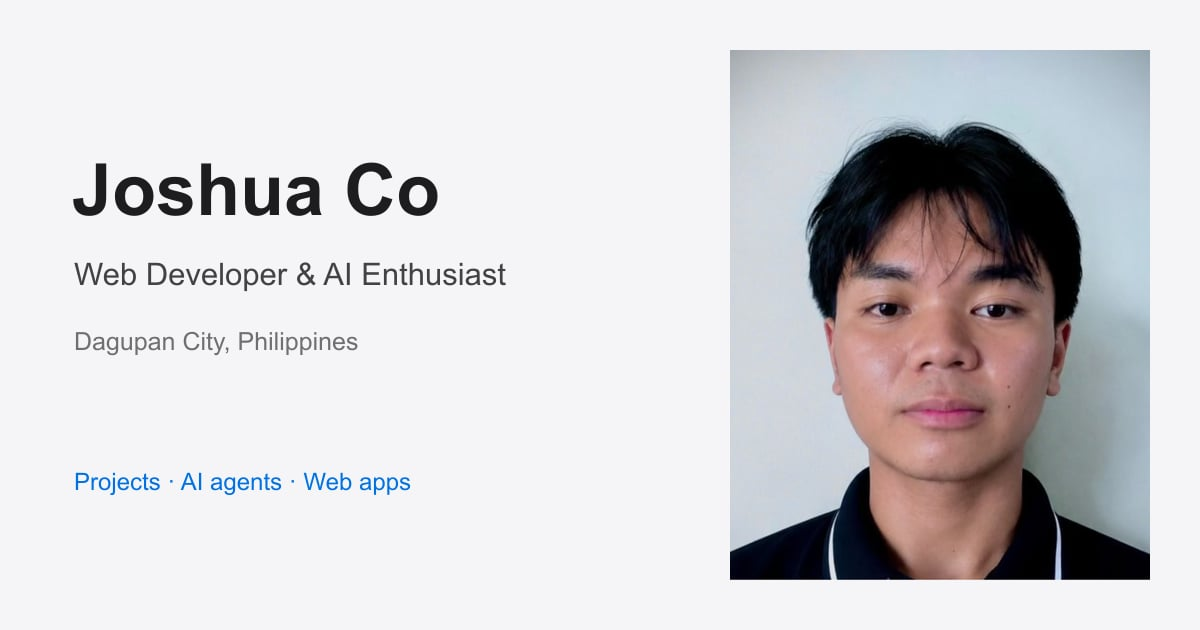
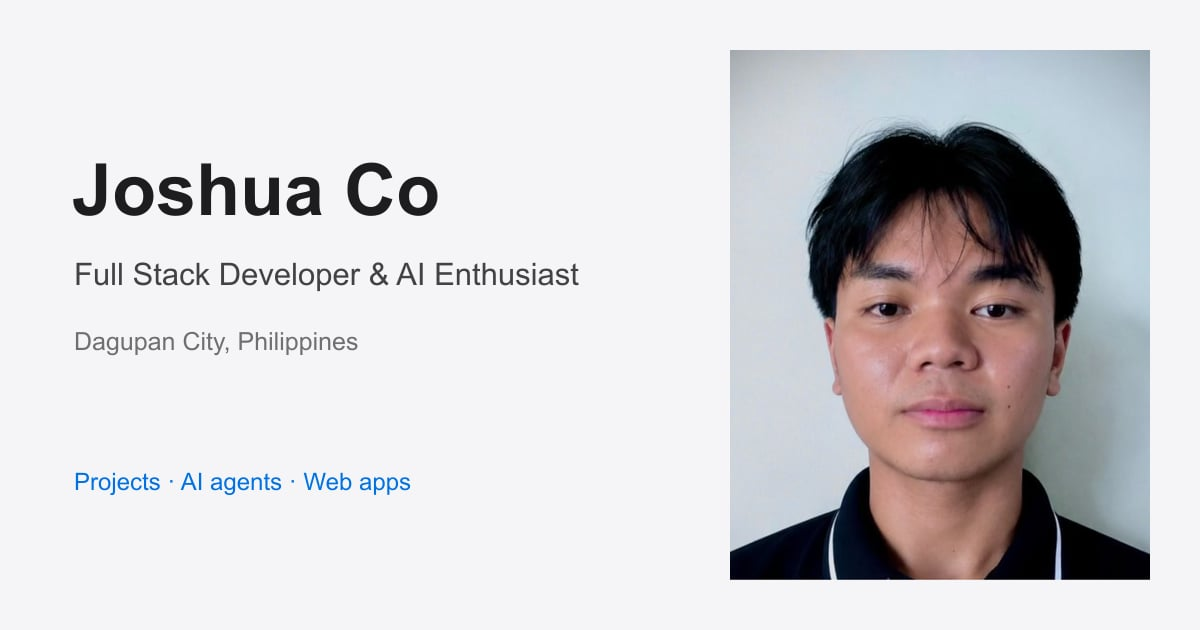
a

Changed region(s): [[0.0617, 0.3921, 0.4933, 0.4524]]

diff --git a/src/data.js b/src/data.js
@@ -21,6 +21,7 @@ export const profile = {
 export const projects = [
   {
     id: 'clak',
+    badge: 'Side project',
     name: 'Clak',
     tagline: 'A free typing test with mechanical keyboard sounds.',
     role: 'Developer',
@@ -32,6 +33,40 @@ export const projects = [
       'A mechanical keyboard preview with optional switch sounds.',
     ],
     image: '/images/projects/clak.png',
+    imageHint: '1600 × 1000',
+  },
+  {
+    id: 'screenshot-shelf',
+    badge: 'Side project',
+    name: 'Screenshot Shelf',
+    tagline:
+      'A macOS menu bar app that keeps screenshots on a floating shelf, ready to paste, compare, or open on your phone.',
+    role: 'Developer',
+    url: 'https://getshelfscreen.onrender.com',
+    urlLabel: 'getshelfscreen.onrender.com',
+    stack: ['HTML/CSS', 'JavaScript', 'Swift', 'AppKit', 'ScreenCaptureKit'],
+    points: [
+      'Capture part of your screen and paste it immediately, or drag the image from the shelf into another app.',
+      'Retake the same area and compare both screenshots with a slider, then copy them side by side.',
+    ],
+    image: '/images/projects/screenshot-shelf.png',
+    imageHint: '1600 × 1000',
+  },
+  {
+    id: 'probinsya-drive',
+    badge: 'Side project',
+    name: 'Probinsya Drive',
+    tagline:
+      'A browser game where you drive a jeepney forever through the Philippine countryside. No missions, scores, or timers.',
+    role: 'Developer',
+    url: 'https://probinsya-drive.onrender.com/',
+    urlLabel: 'probinsya-drive.onrender.com',
+    stack: ['TypeScript', 'three.js', 'Vite', 'Web Audio API', 'Node.js', 'WebSockets'],
+    points: [
+      'Drive with the keyboard on desktop, or scan a QR code and steer with your phone by tilt or touch, with nothing to install.',
+      'A 3D countryside built with three.js, an engine sound made with the Web Audio API, and an optional manual gearbox.',
+    ],
+    image: '/images/projects/probinsya-drive.png',
     imageHint: '1600 × 1000',
   },
   {
@@ -131,7 +166,7 @@ export const skills = [
   },
   {
     title: 'Languages',
-    items: ['Python', 'TypeScript', 'JavaScript', 'Java', 'Kotlin', 'PHP', 'Solidity'],
+    items: ['Python', 'TypeScript', 'JavaScript', 'Swift', 'Java', 'Kotlin', 'PHP', 'Solidity'],
   },
   {
     title: 'Backend',

diff --git a/src/App.css b/src/App.css
@@ -489,8 +489,33 @@
   object-fit: cover;
 }
 
-#clak .image-slot img {
+.project--side .image-slot img {
   object-fit: contain;
+}
+
+/* Full-bleed shot: fill the frame; crops a little off each side. */
+#probinsya-drive .image-slot img {
+  object-fit: cover;
+}
+
+/* macOS window dots on the side-project cards. */
+.project--side .image-slot::before {
+  content: '';
+  position: absolute;
+  top: 18px;
+  left: 20px;
+  z-index: 1;
+  width: 12px;
+  height: 12px;
+  border-radius: 50%;
+  background: #ff5f57;
+  box-shadow: 20px 0 #febc2e, 40px 0 #28c840;
+}
+
+/* Wireframe stage: dots go gray until the card is built. */
+.js-build .project--side [data-build]:not(.is-built) .image-slot::before {
+  background: var(--line-strong);
+  box-shadow: 20px 0 var(--line-strong), 40px 0 var(--line-strong);
 }
 
 /* Transparent laptop renders sit straight on the page, no card. */
@@ -598,6 +623,10 @@
   align-items: center;
 }
 
+.project--flip {
+  grid-template-columns: 1fr 1.25fr;
+}
+
 .project--flip .project__media {
   order: 2;
 }
@@ -616,6 +645,18 @@
   font-weight: 600;
   color: var(--text-3);
   margin-bottom: 10px;
+}
+
+.project__badge {
+  display: inline-block;
+  margin-left: 10px;
+  padding: 3px 10px;
+  border-radius: var(--radius-pill);
+  background: var(--chip);
+  color: var(--text-2);
+  font-size: 12px;
+  font-weight: 600;
+  vertical-align: 1px;
 }
 
 .project__name {
@@ -696,7 +737,8 @@
 }
 
 @media (max-width: 860px) {
-  .project {
+  .project,
+  .project--flip {
     grid-template-columns: 1fr;
   }
   .project--flip .project__media {

diff --git a/src/components/Projects.jsx b/src/components/Projects.jsx
@@ -14,15 +14,14 @@ export function Projects() {
             Things I’ve built.
           </h2>
           <p className="section__lead">
-            From typing tools to fintech and healthcare: software that solves a
-            real problem for real people.
+            Small tools and bigger systems, built for people to use.
           </p>
         </Reveal>
 
         <div className="projects">
           {projects.map((p, i) => (
             <article
-              className={`project ${i % 2 ? 'project--flip' : ''}`}
+              className={`project ${i % 2 ? 'project--flip' : ''} ${p.badge ? 'project--side' : ''}`}
               id={p.id}
               key={p.id}
             >
@@ -35,7 +34,10 @@ export function Projects() {
                 />
               </Reveal>
               <Reveal className="project__body" layer={p.name}>
-                <p className="project__role">{p.role}</p>
+                <p className="project__role">
+                  {p.role}
+                  {p.badge && <span className="project__badge">{p.badge}</span>}
+                </p>
                 <h3 className="project__name">{p.name}</h3>
                 <p className="project__tagline">{p.tagline}</p>
                 {p.metric && (
